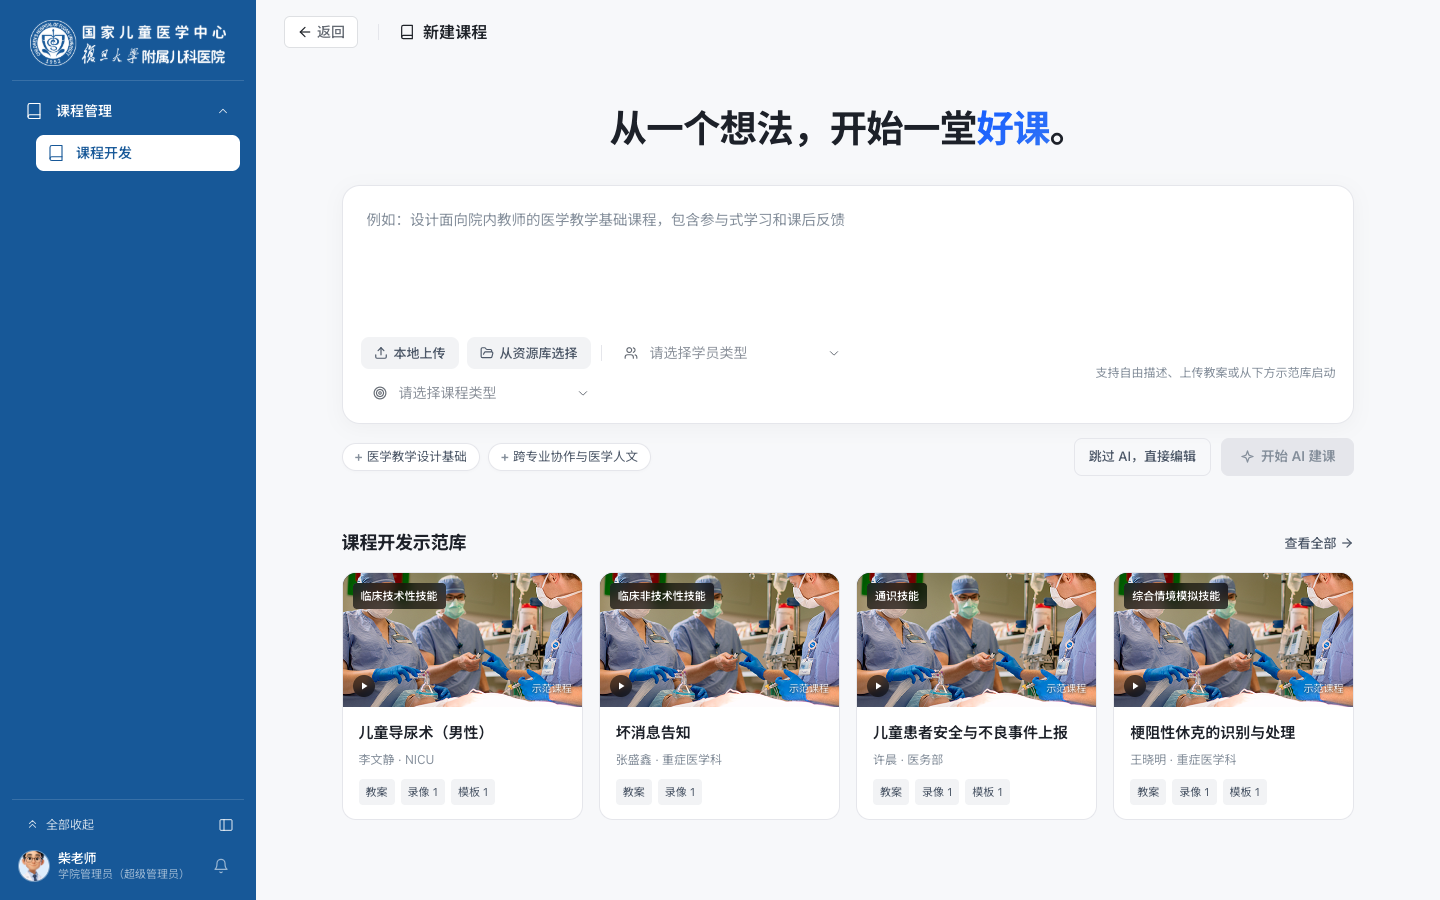
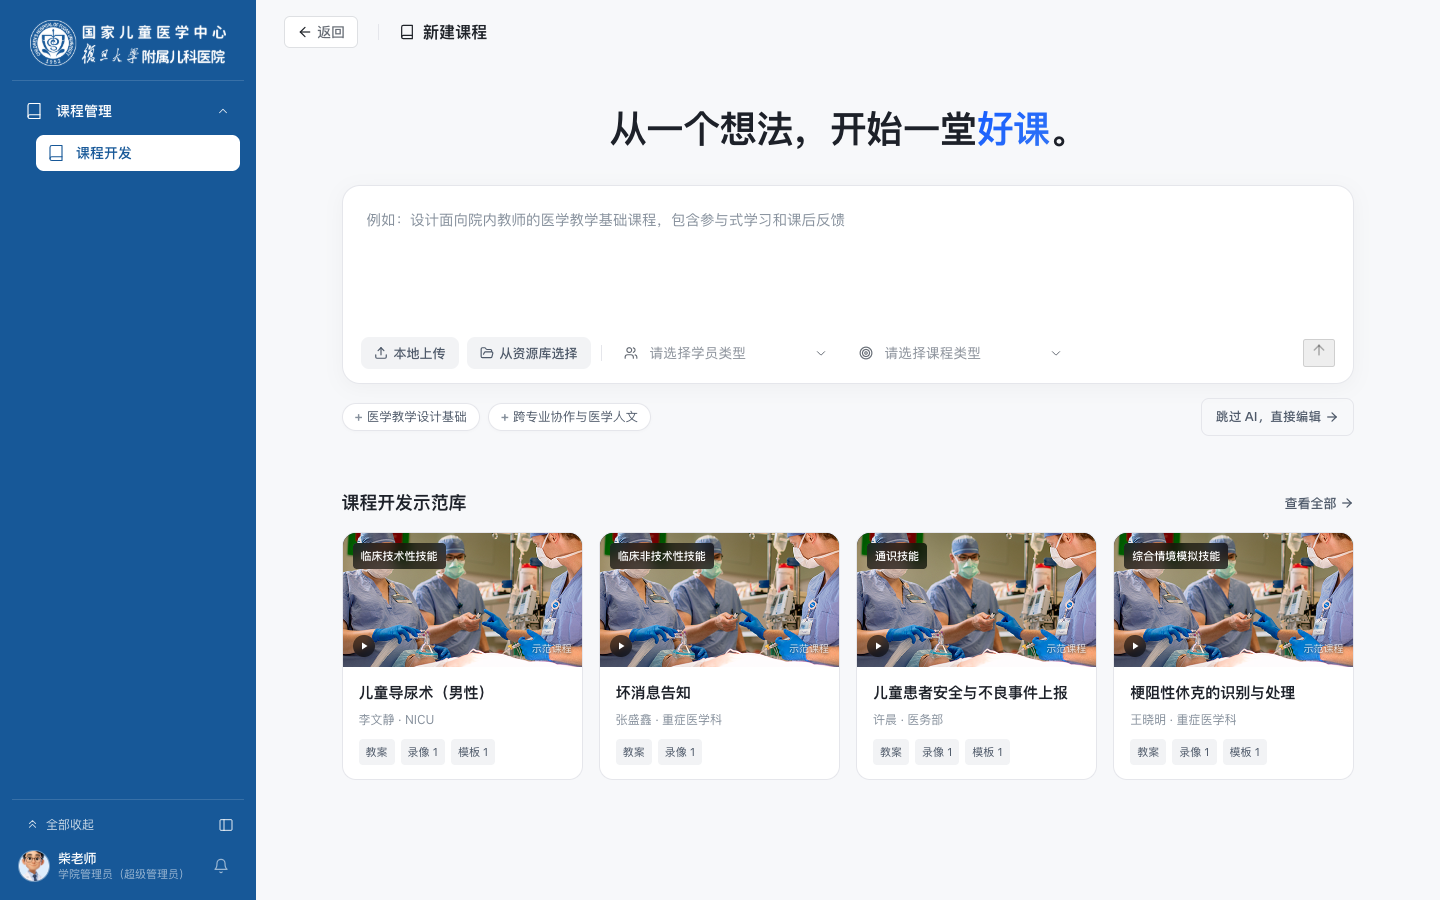
docs: 同步 2026-11-28 建课流程 P0 重构留痕至留痕专用库

diff --git a/2026-11-28-修改前后对比.html b/2026-11-28-修改前后对比.html
@@ -105,6 +105,13 @@
           <td>PC 端全 19 个角色左侧导航（如「题库与试卷」「评估管理」「空间/物资/师生管理」）及移动端工作台入口</td>
           <td><a href="../../shared/js/nav-data.js">nav-data.js</a> + <a href="../../移动端/shared/tdesign-app.js">tdesign-app.js</a> + <a href="../专项-Icon语义化与去重改造方案.md">专项方案.md</a> · 文字记录</td>
         </tr>
+        <tr data-scope="PC端">
+          <td>05</td>
+          <td><a href="#sec-05"><strong>技能中心建课流程 P0 重构 · Step 2 按钮主次反转与 Step 3 操作按钮收敛</strong></a></td>
+          <td><span class="scope-tag">PC端</span></td>
+          <td>课程管理 → 课程开发 → 新建课程（<code>pages/课程开发/index.html</code> / <code>pages/技能中心课程/views/development.js</code>）</td>
+          <td><a href="../../pages/技能中心课程/views/development.js">development.js</a> + <a href="../../pages/技能中心课程/views/development.css">development.css</a> + <a href="../../shared/js/course-dev-renderer.js">course-dev-renderer.js</a> + <a href="../../shared/styles/course-dev.css">course-dev.css</a> · 图文对比（4 张）</td>
+        </tr>
       </tbody>
     </table>
   </section>
@@ -375,6 +382,42 @@
           <li>建立 <code>pageIcons</code> 页面级语义映射并升级 <code>group()</code>：仅「父子完全重名」的单子项直达入口（如「教学资源库 › 教学资源库」）沿用同名图标，其余全部按语义匹配独立图标（如「题库与试卷」<code>layers</code> → 题库工作台 <code>barChart</code> / 题库管理 <code>database</code> / 试卷中心 <code>fileSpreadsheet</code> / 题库设置 <code>sliders</code> / 自适应学习 <code>sparkles</code>），经脚本校验 19 个角色零父子/同级重复。</li>
           <li>移动端（<code>移动端/shared/tdesign-app.js</code>）同步统一：科室端「试卷中心」改为 <code>file-spreadsheet</code>、「课程审核/把关」改为 <code>book-check</code>，教师端「表单开发任务」改为 <code>file-check-2</code>，学员端「评价反馈」改为 <code>message-square-heart</code>。</li>
         </ul>
+      </div>
+    </div>
+  </section>
+  <section id="sec-05">
+    <h2>05 · 技能中心建课流程 P0 重构 · Step 2 按钮主次反转与 Step 3 操作按钮收敛</h2>
+    <p>定位：课程管理 → 课程开发 → 点击「＋ 新建课程」进入 AI 启动页（Step 2）及课程编辑器（Step 3）。实现文件：<a href="../../pages/技能中心课程/views/development.js">pages/技能中心课程/views/development.js</a>、<a href="../../pages/技能中心课程/views/development.css">pages/技能中心课程/views/development.css</a>、<a href="../../shared/js/course-dev-renderer.js">shared/js/course-dev-renderer.js</a>、<a href="../../shared/styles/course-dev.css">shared/styles/course-dev.css</a>。</p>
+    <div class="pair">
+      <div>
+        <h3>Step 2（AI 启动页）· 修改前</h3>
+        <ul>
+          <li><strong>按钮主次倒置</strong>：「跳过 AI，直接编辑 →」占据右下角醒目的蓝色实心主按钮位，而「开始生成教案 ↑」仅缩在输入区右下角小圆点中，容易引导教师误跳过 AI。</li>
+        </ul>
+        <a href="2026-11-28-对比截图/建课流程-Step2-修改前.png" target="_blank"><img alt="建课流程Step2修改前" src="2026-11-28-对比截图/建课流程-Step2-修改前.png"></a>
+      </div>
+      <div>
+        <h3>Step 2（AI 启动页）· 修改后</h3>
+        <ul>
+          <li><strong>主次按钮反转</strong>：将「跳过 AI，直接编辑」降级为左侧 Ghost 描边次按钮；将「开始 AI 建课」升级为右下角唯一医疗蓝（<code>#175898</code>）实心主按钮，输入想法或上传教案后高亮激活。</li>
+        </ul>
+        <a href="2026-11-28-对比截图/建课流程-Step2-修改后.png" target="_blank"><img alt="建课流程Step2修改后" src="2026-11-28-对比截图/建课流程-Step2-修改后.png"></a>
+      </div>
+    </div>
+    <div class="pair" style="margin-top:24px">
+      <div>
+        <h3>Step 3（课程编辑页）· 修改前</h3>
+        <ul>
+          <li>每个区块右上角常驻显眼的「✨ AI 优化内容」与「编辑」双按钮，整页视觉噪音高、操作入口重复。</li>
+        </ul>
+        <a href="2026-11-28-对比截图/建课流程-Step3-修改前.png" target="_blank"><img alt="建课流程Step3修改前" src="2026-11-28-对比截图/建课流程-Step3-修改前.png"></a>
+      </div>
+      <div>
+        <h3>Step 3（课程编辑页）· 修改后</h3>
+        <ul>
+          <li>配合扁平分割线画布，将各区块右上角 <code>.cd-section-actions</code> 收敛为默认隐藏，仅在鼠标悬浮（<code>:hover</code>）、聚焦（<code>:focus-within</code>）或触屏设备下显现，大幅提升阅读与编辑专注度。</li>
+        </ul>
+        <a href="2026-11-28-对比截图/建课流程-Step3-修改后.png" target="_blank"><img alt="建课流程Step3修改后" src="2026-11-28-对比截图/建课流程-Step3-修改后.png"></a>
       </div>
     </div>
   </section>

diff --git a/index.html b/index.html
@@ -127,7 +127,7 @@
       </div>
       <div class="metric-card">
         <div class="metric-label">对比留痕截图</div>
-        <div class="metric-value">304<span class="metric-unit">张</span></div>
+        <div class="metric-value">308<span class="metric-unit">张</span></div>
       </div>
       <div class="metric-card">
         <div class="metric-label">最新更新日期</div>
@@ -200,6 +200,11 @@
           <a class="item-link" href="2026-11-28-修改前后对比.html#sec-04">
             <span class="item-num">04</span>
             <span class="item-name">统一账号收件箱 · 名称统一为「通知、提醒和互动」并按三类规则重分</span>
+            <span class="item-badge">PC端</span>
+          </a>
+          <a class="item-link" href="2026-11-28-修改前后对比.html#sec-05">
+            <span class="item-num">05</span>
+            <span class="item-name">技能中心建课流程 P0 重构 · Step 2 按钮主次反转与 Step 3 操作按钮收敛</span>
             <span class="item-badge">PC端</span>
           </a>
           <a class="item-link" href="2026-11-28-修改前后对比.html#sec-05">
